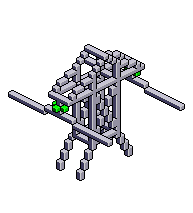
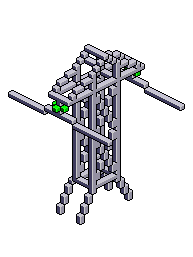
bigger pilon

Changed region(s): [[0.0311, 0.169, 0.9637, 0.8732]]

diff --git a/mainelectricitywidget.go b/mainelectricitywidget.go
@@ -49,7 +49,7 @@ func NewMainElectricityWidget(root *sws.RootWidget) *MainElectricityWidget {
 		usageprice:  sws.NewLabelWidget(100, 25, "0 $"),
 	}
 
-	pilon := sws.NewLabelWidget(193, 213, "")
+	pilon := sws.NewLabelWidget(193, 257, "")
 	if icon, err := global.LoadImageAsset("assets/ui/pilon2.png"); err == nil {
 		pilon.SetImageSurface(icon)
 	}
